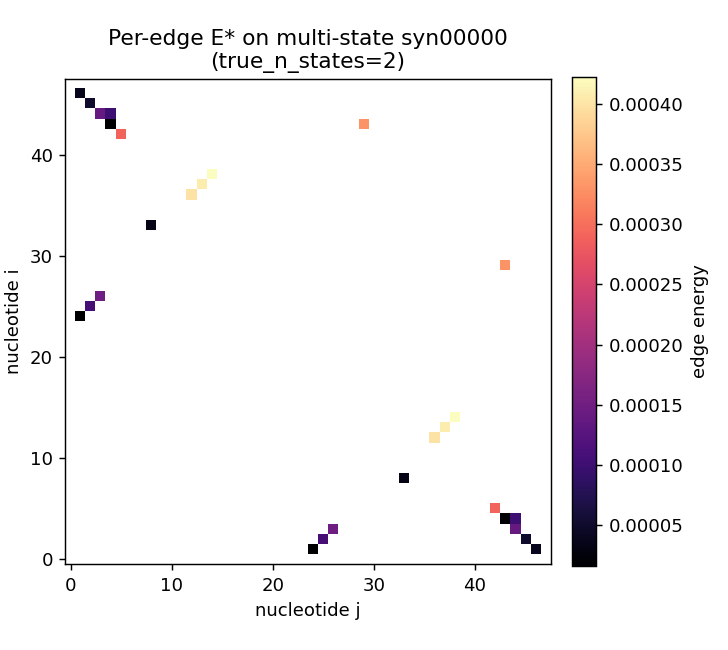
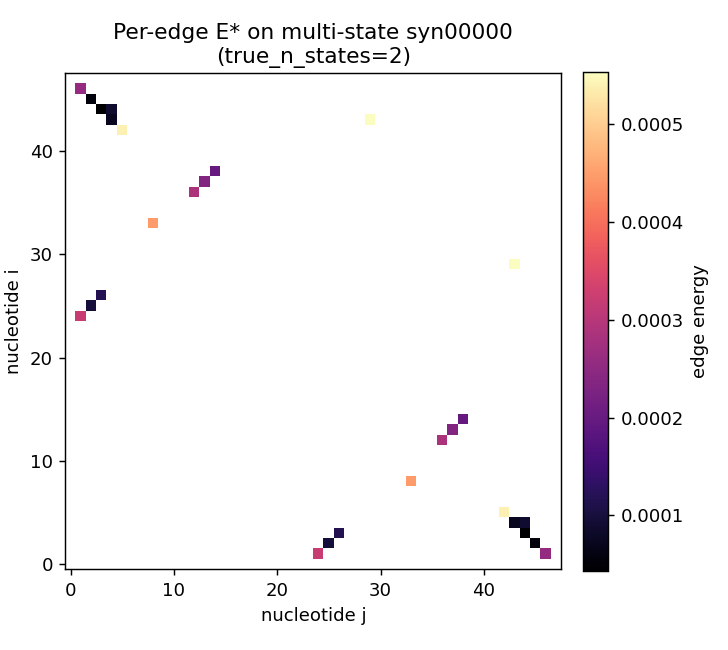
Part C: run on REAL OpenKnot data (honest no-win) + anti-leakage BPP edges
Ran the killer benchmark on real OpenKnotBench SHAPE reactivity (200 molecules,
100/class balanced by RNet pseudoknot reference, high S/N), with structure-blind
ViennaRNA base-pair-probability candidate edges.

Result (results/real_openknot.json): the non-learned gold standard leads
(entropy AUROC 0.688) over sheaf general 0.634 / identity 0.611; beats_gold=False.
General ~ identity. E* does survive the joint confound battery here (partial-rho 0.27,
p<1e-3). Documented handicap: ViennaRNA is nested-only, so the candidate graph cannot
contain the crossing pairs that define a pseudoknot - exactly the structure the sheaf
would need. Consistent with the Part A finding on real data.

- loaders.py: candidate edges now come from a STRUCTURE-BLIND ViennaRNA BPP fold
  (anti-leakage); experimental structure used only for the label.
- scripts/run_openknot.py: real-data runner (balanced subsample, folding, killer).
- plots.py: real_openknot_bar figure. README: Part C section + honest caveats.

diff --git a/scripts/run_openknot.py b/scripts/run_openknot.py
@@ -1,0 +1,116 @@
+"""Run the SheafProbe killer flow on REAL OpenKnot data (OpenKnotBench).
+
+Task: from REAL SHAPE reactivity, separate molecules whose reference structure is a
+**pseudoknot** from those that are not. Inputs are structure-blind: candidate base-pair
+edges come from a ViennaRNA partition-function fold (nested only — a documented
+limitation, since Vienna cannot place the crossing pairs that define a pseudoknot), and
+the label comes from the benchmark's RNet reference structure (a model-derived reference,
+not a gold experimental structure). DMS is absent (OpenKnot is SHAPE-only).
+
+Writes ``results/real_openknot.json`` without clobbering the synthetic results.
+
+Usage:
+    python scripts/run_openknot.py --csv <OpenKnotBench_data.csv> \
+        --n-per-class 120 --epochs 50 --n-seeds 2 --seed 0 --out results
+"""
+from __future__ import annotations
+
+import argparse
+import json
+import os
+import random
+import tempfile
+
+import numpy as np
+import pandas as pd
+
+from sheafprobe.data.schema import Sample
+from sheafprobe.data.loaders import _bpp_candidate_edges, _is_pseudoknot
+from sheafprobe.experiments.killer import run_killer
+
+
+def _build_sample(rec_id, seq, shape, label):
+    n = len(seq)
+    bpp = _bpp_candidate_edges(seq)
+    if bpp:
+        pairs = [(i, j) for (i, j, _p) in bpp]
+        weights = np.array([0.5 + 0.5 * p for (_i, _j, p) in bpp], dtype=np.float64)
+    else:
+        pairs = [(i, min(i + 8, n - 1)) for i in range(0, max(1, n - 8), 8)]
+        weights = np.full(len(pairs), 0.5, dtype=np.float64)
+    edges = np.array(pairs, dtype=np.int64).T.reshape(2, -1)
+    backbone = np.array([[k, k + 1] for k in range(n - 1)], dtype=np.int64).T.reshape(2, -1)
+    return Sample(id=str(rec_id), seq=seq, n=n, edges=edges, edge_weight=weights,
+                  backbone=backbone, react_shape=np.asarray(shape, dtype=np.float64),
+                  react_dms=np.full(n, np.nan), label_multistate=int(label),
+                  true_n_states=-1, meta={"source": "openknotbench"})
+
+
+def main(argv=None) -> int:
+    ap = argparse.ArgumentParser()
+    ap.add_argument("--csv", required=True)
+    ap.add_argument("--n-per-class", type=int, default=120)
+    ap.add_argument("--epochs", type=int, default=50)
+    ap.add_argument("--n-seeds", type=int, default=2)
+    ap.add_argument("--seed", type=int, default=0)
+    ap.add_argument("--out", default="results")
+    args = ap.parse_args(argv)
+
+    # Build a balanced, correctly-labelled sample list.
+    react_cols = None
+    rng = random.Random(args.seed)
+    pos, neg = [], []
+    for chunk in pd.read_csv(args.csv, chunksize=2000):
+        if react_cols is None:
+            react_cols = [c for c in chunk.columns
+                          if c.lower().startswith("reactivity") and "error" not in c.lower()]
+        chunk = chunk[chunk.get("SN_filter", 1) == 1]
+        for _, row in chunk.iterrows():
+            seq, struct = row.get("sequence"), row.get("RNet_structure")
+            if not isinstance(seq, str) or not isinstance(struct, str):
+                continue
+            n = len(seq)
+            if n < 20 or n > 260:
+                continue
+            shape = row[react_cols].to_numpy(dtype=np.float64)[:n]
+            if shape.shape[0] < n or np.mean(np.isfinite(shape)) < 0.5:
+                continue
+            (pos if _is_pseudoknot(struct) else neg).append((row.get("id", "?"), seq, shape))
+        if len(pos) > 4 * args.n_per_class and len(neg) > args.n_per_class:
+            break
+    rng.shuffle(pos)
+    rng.shuffle(neg)
+    k = min(args.n_per_class, len(pos), len(neg))
+    if k < 10:
+        print(f"[openknot] too few of one class (pos={len(pos)}, neg={len(neg)}).")
+        return 2
+    chosen = [(rec, 1) for rec in pos[:k]] + [(rec, 0) for rec in neg[:k]]
+    rng.shuffle(chosen)
+    samples = [_build_sample(rec[0], rec[1], rec[2], lbl) for rec, lbl in chosen]
+    print(f"[openknot] balanced {len(samples)} molecules ({k}/class); "
+          f"pool pos={len(pos)} neg={len(neg)}; folding via ViennaRNA done.")
+
+    with tempfile.TemporaryDirectory() as tmp:
+        res = run_killer(samples, tmp, seed=args.seed, n_seeds=args.n_seeds,
+                         epochs=args.epochs, k=8, n_layers=3)
+    res["dataset"] = "OpenKnotBench (real SHAPE; label=RNet_structure pseudoknot; ViennaRNA-BPP nested edges)"
+    res["n_molecules_used"] = len(samples)
+    res["pool_pos_neg"] = [len(pos), len(neg)]
+    res["caveats"] = ["ViennaRNA BPP edges are nested-only (cannot encode the crossing pairs).",
+                      "Label is the model-derived RNet reference structure, not a gold experimental structure.",
+                      "SHAPE-only (no DMS), so the cross-view term is inactive."]
+
+    os.makedirs(args.out, exist_ok=True)
+    out_path = os.path.join(args.out, "real_openknot.json")
+    with open(out_path, "w", encoding="utf-8") as fh:
+        json.dump(res, fh, indent=2)
+    a = res["auroc"]
+    print(f"[openknot] sheaf_general {a['sheaf_general']['mean']:.4f}+/-{a['sheaf_general']['std']:.4f} "
+          f"| identity {a['sheaf_identity']['mean']:.4f} | gold {a['entropy_bpp_gold']:.4f} "
+          f"| beats_gold {res['beats_gold']}")
+    print(f"[openknot] wrote {out_path}")
+    return 0
+
+
+if __name__ == "__main__":
+    raise SystemExit(main())

diff --git a/sheafprobe/data/loaders.py b/sheafprobe/data/loaders.py
@@ -66,27 +66,58 @@ def _is_pseudoknot(structure: str) -> int:
     return int(any(c in _PK_BRACKETS for c in structure))
 
 
+def _bpp_candidate_edges(seq: str, min_prob: float = 0.05,
+                         max_per_nt: float = 2.0) -> Optional[List[tuple]]:
+    """STRUCTURE-BLIND candidate base pairs from a ViennaRNA partition-function fold.
+
+    Returns (i, j, prob) pairs whose base-pair probability exceeds ``min_prob``,
+    capped at ``max_per_nt * n`` strongest pairs. Returns ``None`` if ViennaRNA is
+    not installed (caller falls back). This is the key anti-leakage step: candidate
+    edges come from sequence alone, never from the experimental structure that also
+    defines the label.
+    """
+    try:
+        import RNA  # ViennaRNA
+    except ImportError:
+        return None
+    n = len(seq)
+    fc = RNA.fold_compound(seq.replace("T", "U"))
+    fc.pf()
+    bpp = fc.bpp()  # 1-indexed [n+1][n+1] upper triangle
+    out = []
+    for i in range(1, n + 1):
+        for j in range(i + 1, n + 1):
+            p = bpp[i][j]
+            if p > min_prob:
+                out.append((i - 1, j - 1, float(p)))
+    out.sort(key=lambda t: t[2], reverse=True)
+    cap = int(max_per_nt * n)
+    return out[:cap] if cap > 0 else out
+
+
 def _sample_from_record(rec_id: str, seq: str,
                         shape: np.ndarray,
                         structure: Optional[str]) -> Optional[Sample]:
     """Build a :class:`Sample` from a parsed OpenKnot-style record (SHAPE only).
 
-    DMS is all-nan (OpenKnot is a single-reagent design set). ``label_multistate``
-    comes from the pseudoknot annotation when a structure is present, else 0.
+    Candidate base-pair edges come from a STRUCTURE-BLIND ViennaRNA base-pair-
+    probability fold (no leakage); the experimental ``structure`` is used ONLY to set
+    ``label_multistate`` (pseudoknot vs not). DMS is all-nan (single-reagent set).
     Returns ``None`` if the record is unusable (empty / length mismatch).
     """
     n = len(seq)
     if n < 4 or shape.shape[0] != n:
         return None
     structure = structure if structure else ""
-    pairs = _candidate_edges_from_structure(structure) if structure else []
-    if not pairs:
-        # No structure annotation: use a few backbone-distant decoys so the graph
-        # is non-empty; honest about the lack of pairing prior via low weights.
-        pairs = [(i, min(i + 8, n - 1)) for i in range(0, n - 8, 8)]
-        weights = np.full(len(pairs), 0.5, dtype=np.float64)
+
+    bpp_pairs = _bpp_candidate_edges(seq)
+    if bpp_pairs:
+        pairs = [(i, j) for (i, j, _p) in bpp_pairs]
+        weights = np.array([0.5 + 0.5 * p for (_i, _j, p) in bpp_pairs], dtype=np.float64)
     else:
-        weights = np.full(len(pairs), 0.9, dtype=np.float64)
+        # ViennaRNA unavailable: structure-blind backbone-distant decoys (low weight).
+        pairs = [(i, min(i + 8, n - 1)) for i in range(0, max(1, n - 8), 8)]
+        weights = np.full(len(pairs), 0.5, dtype=np.float64)
     if not pairs:
         pairs = [(0, min(3, n - 1))]
         weights = np.array([0.5], dtype=np.float64)

diff --git a/sheafprobe/experiments/plots.py b/sheafprobe/experiments/plots.py
@@ -186,6 +186,39 @@ def _holonomy_bar(holo: Dict, fig_dir: str) -> Optional[str]:
     return out
 
 
+def _real_openknot_bar(real: Dict, fig_dir: str) -> Optional[str]:
+    """Real OpenKnot data: sheaf vs gold/identity/transformer (pseudoknot detection)."""
+    auroc = real.get("auroc", {})
+
+    def _as_float(v):
+        return float(v["mean"]) if isinstance(v, dict) else float(v)
+
+    order = [
+        ("entropy-bpp\n(gold)", "entropy_bpp_gold"),
+        ("SheafProbe\n(general)", "sheaf_general"),
+        ("SheafProbe\n(identity)", "sheaf_identity"),
+        ("Transformer", "transformer_recon"),
+    ]
+    names = [n for n, key in order if key in auroc]
+    vals = [_as_float(auroc[key]) for _, key in order if key in auroc]
+    if not vals:
+        return None
+    fig, ax = plt.subplots(figsize=(6.4, 4.0))
+    ax.bar(names, vals, color=["#b5651d", "#9aa0a6", "#9aa0a6", "#9aa0a6"][:len(vals)])
+    ax.axhline(0.5, color="red", ls="--", lw=1, label="chance")
+    for x, v in enumerate(vals):
+        ax.text(x, v + 0.01, f"{v:.3f}", ha="center", va="bottom", fontsize=9)
+    ax.set_ylim(0.0, 1.05)
+    ax.set_ylabel("AUROC (pseudoknot detection)")
+    ax.set_title("Real OpenKnot data: gold standard wins (sheaf handicapped)")
+    ax.legend(loc="lower right", fontsize=8)
+    fig.tight_layout()
+    out = os.path.join(fig_dir, "real_openknot_bar.png")
+    fig.savefig(out, dpi=130)
+    plt.close(fig)
+    return out
+
+
 def make_plots(results_dir) -> List[str]:
     """Render all available figures into ``<results_dir>/figures/``.
 
@@ -220,6 +253,12 @@ def make_plots(results_dir) -> List[str]:
     holo = _load_json(results_dir, "holonomy.json")
     if holo is not None:
         path = _holonomy_bar(holo, fig_dir)
+        if path:
+            written.append(os.path.abspath(path))
+
+    real = _load_json(results_dir, "real_openknot.json")
+    if real is not None:
+        path = _real_openknot_bar(real, fig_dir)
         if path:
             written.append(os.path.abspath(path))
 

diff --git a/README.md b/README.md
@@ -22,13 +22,15 @@ honest — which is the point.
 
 | Experiment | Question | Result |
 |---|---|---|
-| **A. Cross-view killer** | Does the *learned* sheaf energy E\* beat the gold standard at detecting heterogeneity? | E\* **beats** the non-learned gold standard (AUROC **0.84 vs 0.60**) — **but** plain graph diffusion (identity maps) does *better* (**0.91–0.93**), and a single reagent beats two. **The learned restriction maps are decorative here.** |
-| **B. Holonomy** | Is there a regime where the sheaf is *provably necessary*? | **Yes.** When heterogeneity is a global **holonomy obstruction**, the sheaf with correct maps reaches AUROC **≈1.00** while identity-map diffusion and every node-level baseline sit at **chance (≈0.50)**. |
+| **A. Cross-view killer** (synthetic) | Does the *learned* sheaf energy E\* beat the gold standard at detecting heterogeneity? | E\* **beats** the non-learned gold standard (AUROC **0.84 vs 0.60**) — **but** plain graph diffusion (identity maps) does *better* (**0.91–0.93**), and a single reagent beats two. **The learned restriction maps are decorative here.** |
+| **B. Holonomy** (synthetic) | Is there a regime where the sheaf is *provably necessary*? | **Yes.** When heterogeneity is a global **holonomy obstruction**, the sheaf with correct maps reaches AUROC **≈1.00** while identity-map diffusion and every node-level baseline sit at **chance (≈0.50)**. |
+| **C. Real OpenKnot data** | On real RNA, does the sheaf detect pseudoknots from SHAPE? | **No win.** The non-learned gold standard leads (**0.69**), sheaf general/identity tie (**0.63/0.61**). Honest, and consistent with A — with the documented handicap that ViennaRNA's nested folding can't even place the crossing pairs. |
 
 **The honest one-liner:** a cellular sheaf is the *only* tool that works precisely when the
-heterogeneity signal lives in cycle holonomy (Part B); when the signal also has a per-position
-footprint, a plain GNN already captures it and the sheaf machinery adds nothing (Part A).
-The hard open problem is *learning* the restriction maps from data.
+heterogeneity signal lives in cycle holonomy (Part B); when the signal has a per-position
+footprint, a plain GNN already captures it (Part A); and on real OpenKnot RNAs the simple
+entropy baseline still leads (Part C). The hard open problem is *learning* the restriction
+maps from data — and giving the graph the pseudoknot-crossing edges the sheaf would need.
 
 ---
 
@@ -97,6 +99,40 @@ Per-edge E\* localises the competing stems on a multi-state molecule:
 
 ---
 
+## Part C — real RNA: OpenKnot (this actually ran)
+
+The synthetic experiments motivate; this is real data. We pulled **OpenKnotBench**
+(`eternagame/OpenKnotAIDesignData`, git-LFS), took a class-balanced subsample of **200
+molecules** (100 pseudoknot / 100 not, by the benchmark's RNet reference structure, high
+signal-to-noise only), built **structure-blind ViennaRNA base-pair-probability edges**, and
+ran the same multi-seed killer benchmark on the real SHAPE reactivity.
+
+| Method | AUROC (pseudoknot detection, real SHAPE) |
+|---|---|
+| **entropy-of-pairing — gold standard** | **0.688** |
+| SheafProbe — general | 0.634 ± 0.025 |
+| SheafProbe — identity | 0.611 |
+| Transformer reconstruction residual | 0.616 |
+
+`beats_gold = False`. On real RNA the **non-learned gold standard leads**, and general ≈
+identity (gap +0.02). One nuance vs the synthetic: here E\* **does** survive the joint
+confound battery (partial-ρ 0.27, p<10⁻³). Everything is modest (0.61–0.69): pseudoknot
+detection from a single reagent is genuinely hard, and the sheaf is **handicapped by
+construction** — ViennaRNA folds nested-only, so the candidate graph cannot contain the
+crossing pairs that define a pseudoknot, which is exactly the cycle structure the sheaf would
+need. Reported as-is (`results/real_openknot.json`).
+
+![Real OpenKnot](results/figures/real_openknot_bar.png)
+
+Reproduce (needs `pip install ViennaRNA` and the OpenKnot LFS data):
+```bash
+git clone https://github.com/eternagame/OpenKnotAIDesignData.git && cd OpenKnotAIDesignData && git lfs pull && cd ..
+python scripts/run_openknot.py --csv OpenKnotAIDesignData/Data/OpenKnotBench_data.v4.5.1.csv \
+    --n-per-class 100 --epochs 40 --out results
+```
+
+---
+
 ## Install & reproduce
 
 ```bash
@@ -120,17 +156,13 @@ Everything above is **CPU-only** and seeded. Results land in `results/*.json` an
 
 `sheafprobe/data/loaders.py` targets three public datasets:
 
-- **OpenKnot** (`eternagame/OpenKnotAIDesignData`, GitHub) — pseudoknot SHAPE data; the natural
-  high-obstruction validation set. *Note: the CSVs are git-LFS; run `git lfs pull` to fetch them.*
+- **OpenKnot** (`eternagame/OpenKnotAIDesignData`, GitHub) — pseudoknot SHAPE data; **run in
+  Part C above** (`scripts/run_openknot.py`). CSVs are git-LFS (`git lfs pull`).
 - **Ribonanza** (Kaggle `stanford-ribonanza-rna-folding`) — 167k sequences with **both** 2A3-SHAPE
-  and DMS on the same molecule (the real dual-view signal). Needs Kaggle credentials.
-- **OpenVaccine** (Kaggle) — per-nucleotide mRNA degradation labels.
+  and DMS on the same molecule (the real dual-view signal). Needs Kaggle credentials. *Not run.*
+- **OpenVaccine** (Kaggle) — per-nucleotide mRNA degradation labels. *Not run.*
 
-```bash
-python -m sheafprobe.experiments.run --task real-openknot --out results   # skips cleanly if offline
-```
-
-The synthetic experiments above are self-contained and need none of these.
+The synthetic experiments (Parts A & B) are self-contained and need none of these.
 
 ---
 
@@ -141,6 +173,7 @@ sheafprobe/
   data/      schema.py (Sample), synthetic.py (cross-view generator), loaders.py (real data)
   models/    sheaf.py (Neural-Sheaf-Diffusion, general/diagonal/identity + E*), baselines.py
   experiments/ killer.py (Part A), ablations.py, holonomy.py (Part B), metrics.py, plots.py, run.py
+scripts/     run_openknot.py (Part C, real data)
 tests/       sheaf-math, synthetic, pipeline smoke
 docs/        design spec
 ```
@@ -155,8 +188,10 @@ docs/        design spec
   maps*; it does **not** show that those maps can be *learned* from real reactivity — that is the
   central open problem.
 - The synthetic generators are biophysically *motivated* (two distinct probes; helix transport;
-  domain-wall frustration) but are **controlled stress-tests**, not real RNA. Real-data validation
-  (OpenKnot/Ribonanza) is wired but not yet run at scale.
+  domain-wall frustration) but are **controlled stress-tests**, not real RNA.
+- **Real data (Part C) was run on OpenKnot** but at modest scale (200 molecules) and with a real
+  handicap (nested-only candidate edges; SHAPE-only). Ribonanza/OpenVaccine (the true dual-reagent
+  signal) need Kaggle credentials and were not run.
 - The transformer baseline is weak/anti-correlated (see †) and not load-bearing.
 
 ---